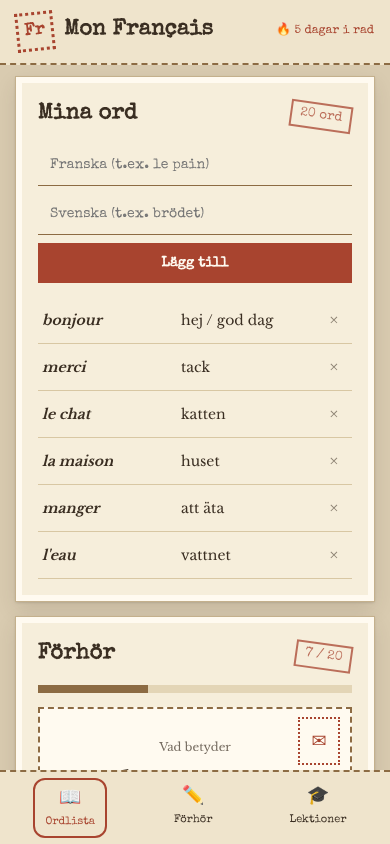
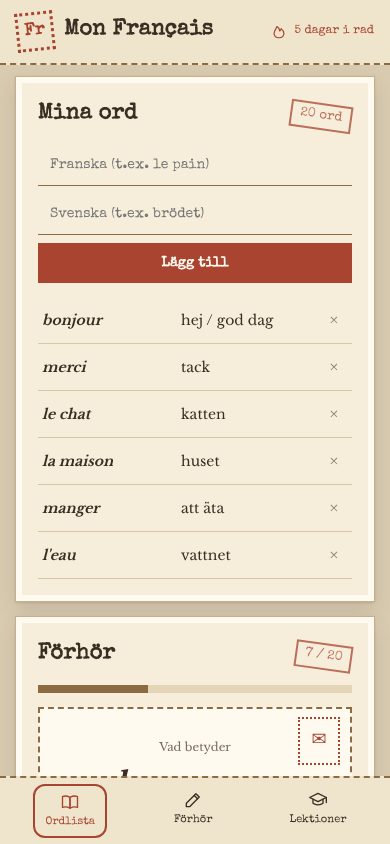
Vykort: byt emojis mot ofärgade streckikoner
Claude-Session: https://claude.ai/code/session_01PSADE4x1k9gXfaiRwmNNZX

Changed region(s): [[0.0, 0.8626, 1.0, 0.955], [0.7077, 0.0308, 0.7385, 0.0616]]

diff --git a/designforslag/designs/18-vykort.html b/designforslag/designs/18-vykort.html
@@ -66,7 +66,7 @@ body{background:#d9cbb0;color:#3a2e22;font-family:'Libre Baskerville',serif;font
 .logo-mark{border:3px dotted #a8442f;color:#a8442f;padding:4px 6px;font-family:'Special Elite';transform:rotate(-6deg)}
 .logo-text{font-family:'Special Elite';font-size:22px}
 .nav a{font-family:'Special Elite'}.nav a.active{border:2px solid #a8442f;color:#a8442f;border-radius:50%;transform:rotate(-4deg)}
-.streak{font-family:'Special Elite';color:#a8442f}
+.streak{font-family:'Special Elite';color:#a8442f;display:flex;align-items:center;gap:6px}.ico{display:block;flex:none}.streak .ico{width:18px;height:18px}
 .panel{background:#f6eedb;box-shadow:0 1px 3px #0003,0 8px 20px #3a2e2222;border:10px solid #fffaf0;outline:1px solid #c4b08c}
 .panel.quiz{transform:rotate(.6deg)}.panel.lesson{transform:rotate(-.4deg)}
 .panel-head h2{font-family:'Special Elite';font-size:22px}
@@ -76,7 +76,7 @@ body{background:#d9cbb0;color:#3a2e22;font-family:'Libre Baskerville',serif;font
 .wordlist li{border-bottom:1px solid #d8c7a3}.wordlist b{font-style:italic}
 .progress{background:#e3d5b6}.bar{background:#8c6b43}
 .card{border:2px dashed #8c6b43;background:#fffaf0;position:relative}
-.card:after{content:'✉';position:absolute;top:8px;right:10px;width:38px;height:44px;border:2px dotted #a8442f;color:#a8442f;display:grid;place-items:center;font-size:18px}
+.card:after{content:'✉\FE0E';font-family:'Special Elite',serif;position:absolute;top:8px;right:10px;width:38px;height:44px;border:2px dotted #a8442f;color:#a8442f;display:grid;place-items:center;font-size:18px}
 .fr-word{font-family:'Libre Baskerville';font-style:italic}
 .feedback.ok{color:#4f6b2d;font-family:'Special Elite'}
 .line{font-family:'Special Elite';border-bottom:1px solid #d8c7a3}
@@ -89,11 +89,11 @@ body{background:#d9cbb0;color:#3a2e22;font-family:'Libre Baskerville',serif;font
   <header class="top">
     <div class="logo"><span class="logo-mark">Fr</span><span class="logo-text">Mon Français</span></div>
     <nav class="nav">
-      <a class="active" href="#"><i>📖</i><span>Ordlista</span></a>
-      <a href="#"><i>✏</i><span>Förhör</span></a>
-      <a href="#"><i>🎓</i><span>Lektioner</span></a>
+      <a class="active" href="#"><i><svg class="ico" viewBox="0 0 24 24" width="20" height="20" fill="none" stroke="currentColor" stroke-width="1.6" stroke-linecap="round" stroke-linejoin="round" aria-hidden="true"><path d="M3 5.5C5.5 4.5 8.5 4.5 12 6.5v13c-3.5-2-6.5-2-9-1z"/><path d="M21 5.5c-2.5-1-5.5-1-9 1v13c3.5-2 6.5-2 9-1z"/></svg></i><span>Ordlista</span></a>
+      <a href="#"><i><svg class="ico" viewBox="0 0 24 24" width="20" height="20" fill="none" stroke="currentColor" stroke-width="1.6" stroke-linecap="round" stroke-linejoin="round" aria-hidden="true"><path d="M15.5 4.5l4 4L8 20H4v-4z"/><path d="M13.5 6.5l4 4"/></svg></i><span>Förhör</span></a>
+      <a href="#"><i><svg class="ico" viewBox="0 0 24 24" width="20" height="20" fill="none" stroke="currentColor" stroke-width="1.6" stroke-linecap="round" stroke-linejoin="round" aria-hidden="true"><path d="M2 9l10-5 10 5-10 5z"/><path d="M6 11v5c3 2.5 9 2.5 12 0v-5"/><path d="M22 9v6"/></svg></i><span>Lektioner</span></a>
     </nav>
-    <div class="streak">🔥 5 dagar i rad</div>
+    <div class="streak"><svg class="ico" viewBox="0 0 24 24" width="20" height="20" fill="none" stroke="currentColor" stroke-width="1.6" stroke-linecap="round" stroke-linejoin="round" aria-hidden="true"><path d="M12 21c-4 0-6.5-2.6-6.5-6 0-3.5 3-5.5 3.5-9 2.5 1.5 4 4 4 6 1-.8 1.6-2 1.8-3.2 2 1.6 3.7 3.8 3.7 6.2 0 3.4-2.5 6-6.5 6z"/></svg> 5 dagar i rad</div>
   </header>
 
   <main class="views">
